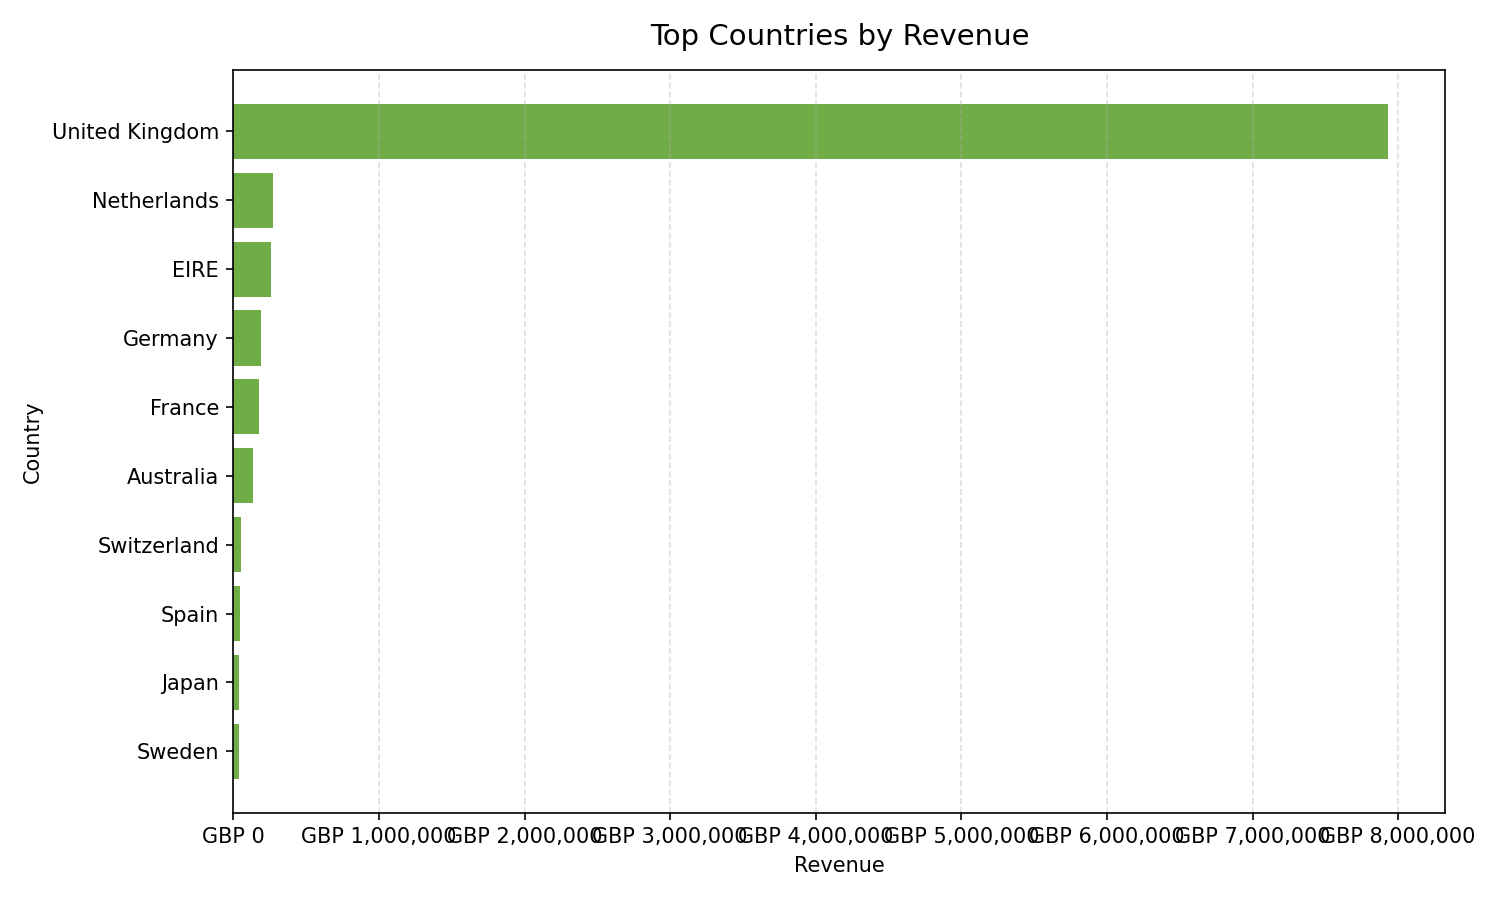
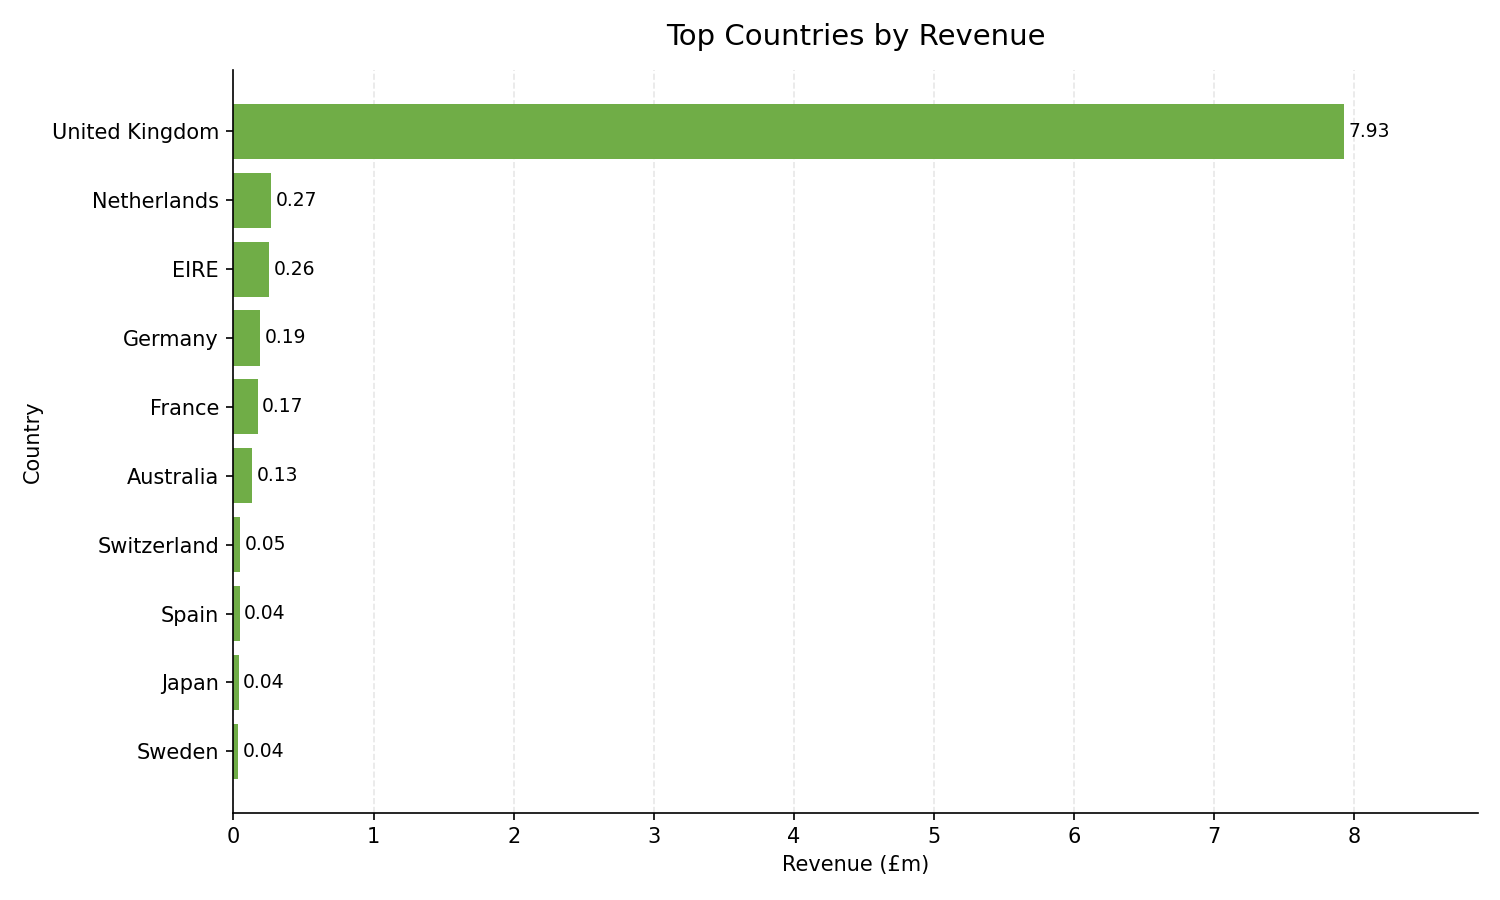
Polish revenue chart formatting

diff --git a/src/create_charts.py b/src/create_charts.py
@@ -16,22 +16,19 @@ MONTHLY_REVENUE_CHART = CHARTS_DIR / "monthly_revenue_trend.png"
 TOP_COUNTRIES_CHART = CHARTS_DIR / "top_countries_by_revenue.png"
 
 
-def format_pounds(value):
-    return f"GBP {value:,.0f}"
-
-
 def create_monthly_revenue_chart(df):
     monthly_revenue = (
         df.groupby("year_month", as_index=False)["Revenue"]
         .sum()
         .sort_values("year_month")
     )
+    monthly_revenue["Revenue_m"] = monthly_revenue["Revenue"] / 1_000_000
 
     fig, ax = plt.subplots(figsize=(10, 5))
 
     ax.plot(
         monthly_revenue["year_month"],
-        monthly_revenue["Revenue"],
+        monthly_revenue["Revenue_m"],
         marker="o",
         linewidth=2,
         color="#2F5597",
@@ -39,10 +36,13 @@ def create_monthly_revenue_chart(df):
 
     ax.set_title("Monthly Revenue Trend", fontsize=14, pad=12)
     ax.set_xlabel("Month")
-    ax.set_ylabel("Revenue")
+    ax.set_ylabel("Revenue (£m)")
     ax.tick_params(axis="x", rotation=45)
-    ax.yaxis.set_major_formatter(lambda value, position: format_pounds(value))
-    ax.grid(axis="y", linestyle="--", alpha=0.4)
+    plt.setp(ax.get_xticklabels(), ha="right")
+    ax.grid(axis="y", linestyle="--", alpha=0.3)
+    ax.set_axisbelow(True)
+    ax.spines["top"].set_visible(False)
+    ax.spines["right"].set_visible(False)
 
     fig.tight_layout()
     fig.savefig(MONTHLY_REVENUE_CHART, dpi=150)
@@ -57,20 +57,33 @@ def create_top_countries_chart(df):
         .head(10)
         .sort_values("Revenue")
     )
+    top_countries["Revenue_m"] = top_countries["Revenue"] / 1_000_000
 
     fig, ax = plt.subplots(figsize=(10, 6))
 
     ax.barh(
         top_countries["Country"],
-        top_countries["Revenue"],
+        top_countries["Revenue_m"],
         color="#70AD47",
     )
 
     ax.set_title("Top Countries by Revenue", fontsize=14, pad=12)
-    ax.set_xlabel("Revenue")
+    ax.set_xlabel("Revenue (£m)")
     ax.set_ylabel("Country")
-    ax.xaxis.set_major_formatter(lambda value, position: format_pounds(value))
-    ax.grid(axis="x", linestyle="--", alpha=0.4)
+    ax.grid(axis="x", linestyle="--", alpha=0.3)
+    ax.set_axisbelow(True)
+    ax.spines["top"].set_visible(False)
+    ax.spines["right"].set_visible(False)
+    ax.set_xlim(0, top_countries["Revenue_m"].max() * 1.12)
+
+    for country, revenue_m in zip(top_countries["Country"], top_countries["Revenue_m"]):
+        ax.text(
+            revenue_m + 0.03,
+            country,
+            f"{revenue_m:.2f}",
+            va="center",
+            fontsize=9,
+        )
 
     fig.tight_layout()
     fig.savefig(TOP_COUNTRIES_CHART, dpi=150)